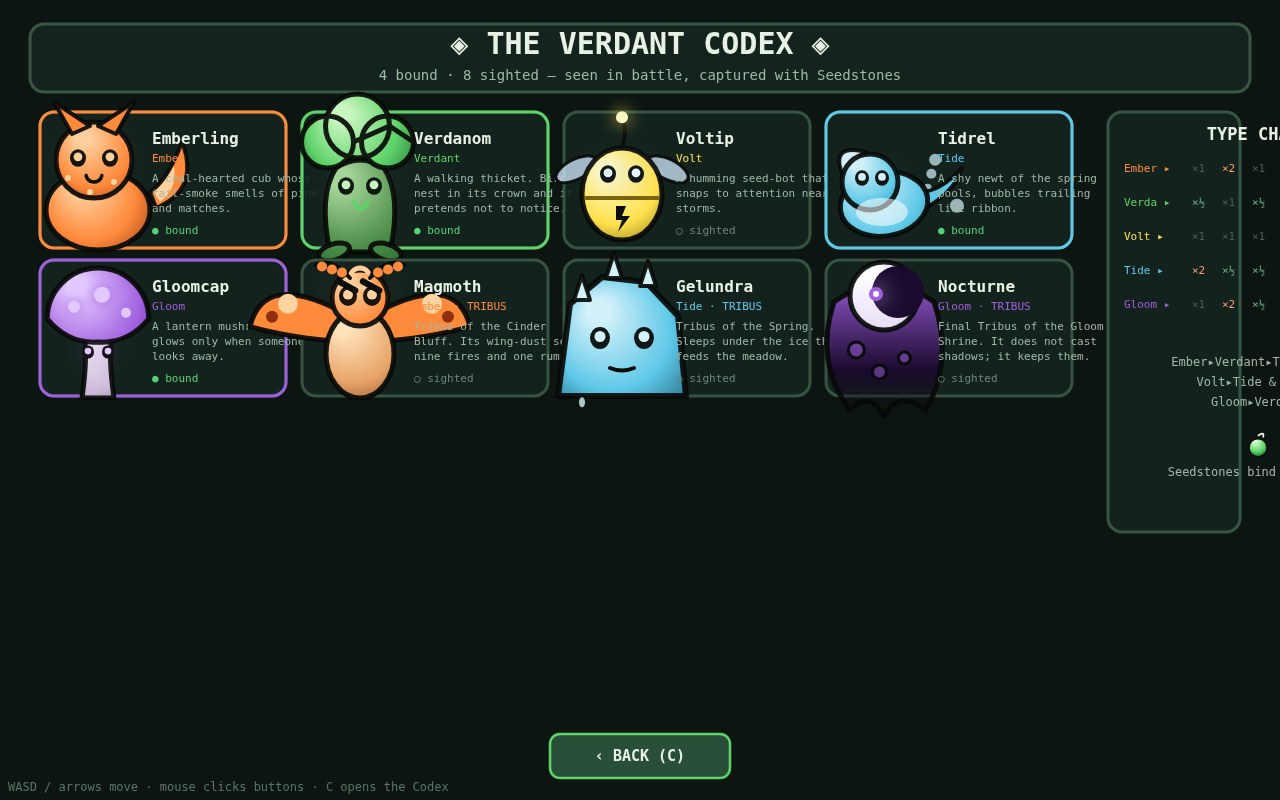
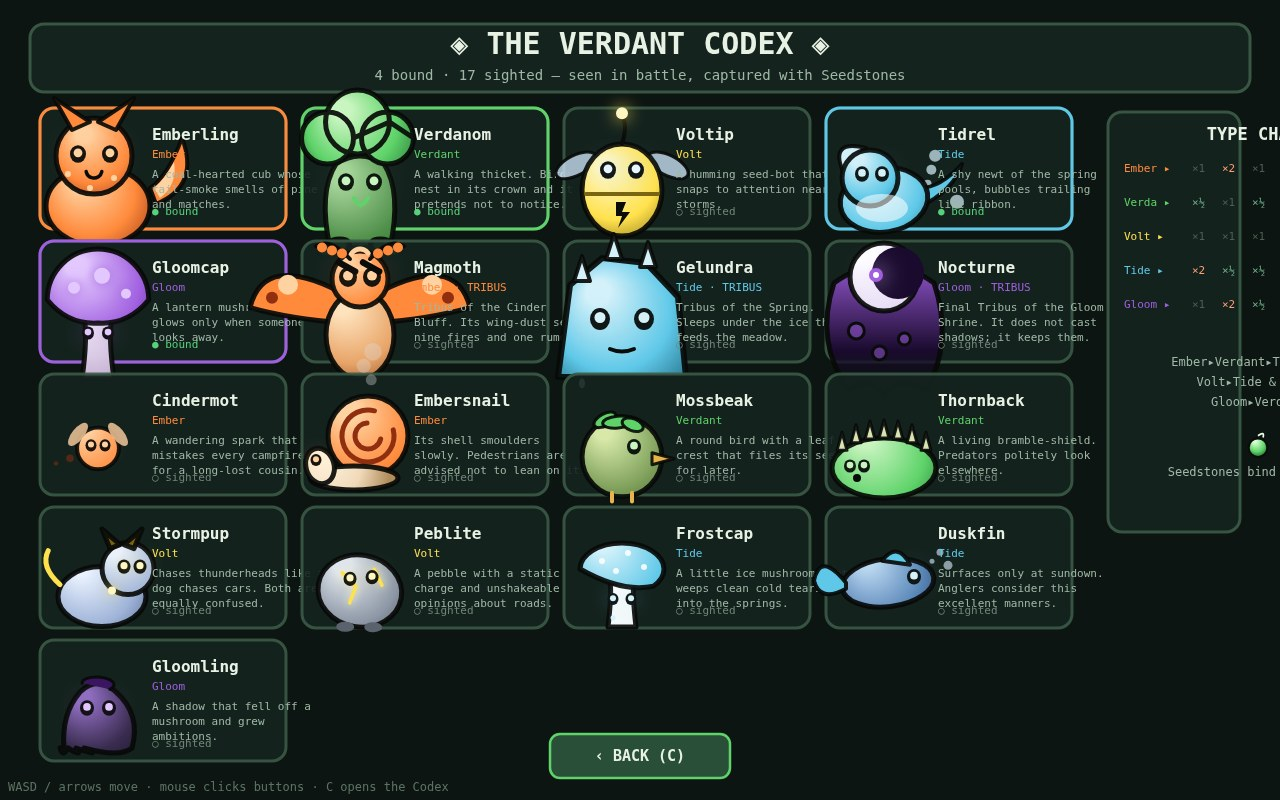
Roster: add 9 junior species (data, procedural art, wild tables); chroma-key PNG loader in render.js; codex grid fits 17 entries

Changed region(s): [[0.0312, 0.0625, 0.875, 0.9688]]

diff --git a/game/src/art.js b/game/src/art.js
@@ -294,7 +294,179 @@ export const SPECIES_ART = {
   emberling: drawEmberling, verdanom: drawVerdanom, voltip: drawVoltip,
   tidrel: drawTidrel, gloomcap: drawGloomcap,
   magmoth: drawMagmoth, gelundra: drawGelundra, nocturne: drawNocturne,
+  cindermot: drawCindermot, embersnail: drawEmbersnail, mossbeak: drawMossbeak,
+  thornback: drawThornback, stormpup: drawStormpup, peblite: drawPeblite,
+  frostcap: drawFrostcap, duskfin: drawDuskfin, gloomling: drawGloomling,
 };
+
+// ---------------------------------------------------------------- juniors (nine common wilds)
+export function drawCindermot(ctx, cx, cy, t, pos, color = ELEMENT_COLORS.Ember) {
+  const hover = pos === 'defeat' ? 24 : Math.sin(t * 4) * 6;
+  ctx.save(); ctx.translate(cx, cy - hover);
+  // ember trail behind the spark-mote
+  ctx.fillStyle = color.dark; ctx.globalAlpha = 0.5;
+  for (let i = 1; i <= 3; i++) { ctx.beginPath(); ctx.arc(-i * 14, i * 5, 7 - i * 1.6, 0, 7); ctx.fill(); }
+  ctx.globalAlpha = 1;
+  ctx.fillStyle = bodyGrad(ctx, 0, 0, 46, color);
+  ctx.beginPath(); ctx.arc(0, 0, 20 + sway(t), 0, 7); ctx.fill(); outline(ctx, 4); ctx.stroke();
+  // wings of flame
+  for (const dir of [-1, 1]) {
+    ctx.fillStyle = color.glow; ctx.globalAlpha = 0.8;
+    ctx.beginPath(); ctx.ellipse(dir * 20, -14, 14, 6, dir * (0.7 + sway(t) * 0.2), 0, 7); ctx.fill();
+  }
+  ctx.globalAlpha = 1;
+  eye(ctx, -7, -3, 5.5, color, 0); eye(ctx, 7, -3, 5.5, color, 0);
+  ctx.restore();
+}
+export function drawEmbersnail(ctx, cx, cy, t, pos, color = ELEMENT_COLORS.Ember) {
+  const droop = pos === 'defeat' ? 12 : 0;
+  ctx.save(); ctx.translate(cx, cy + droop);
+  // smouldering shell (spiral)
+  ctx.fillStyle = bodyGrad(ctx, 8, -12, 66, color);
+  ctx.beginPath(); ctx.arc(8, -12, 40 + droop * 0.2, 0, 7); ctx.fill(); outline(ctx); ctx.stroke();
+  ctx.strokeStyle = color.dark; ctx.lineWidth = 5;
+  ctx.beginPath(); ctx.arc(8, -12, 26, sway(t) * 0.3, sway(t) * 0.3 + 5.2); ctx.stroke();
+  ctx.beginPath(); ctx.arc(8, -12, 13, -sway(t) * 0.3, -sway(t) * 0.3 + 4.4); ctx.stroke();
+  // smoke from shell vent
+  ctx.fillStyle = 'rgba(220,220,220,.35)';
+  for (let i = 0; i < 3; i++) { const s = (t * 20 + i * 14) % 42; ctx.beginPath(); ctx.arc(8 + Math.sin(s * 0.2) * 5, -56 - s, 4 + s * 0.12, 0, 7); ctx.fill(); }
+  // foot + head
+  ctx.fillStyle = bodyGrad(ctx, -26, 26, 44, { main: '#f0d9b8', glow: '#fff3dd', dark: '#b08d5c' });
+  ctx.beginPath(); ctx.ellipse(-6, 30, 44, 12, 0, 0, 7); ctx.fill(); outline(ctx); ctx.stroke();
+  ctx.beginPath(); ctx.ellipse(-40, 18 - droop, 14, 18, -0.3, 0, 7); ctx.fill(); ctx.stroke();
+  eye(ctx, -44, 12 - droop, 5.5, color, 0);
+  ctx.restore();
+}
+export function drawMossbeak(ctx, cx, cy, t, pos, color = ELEMENT_COLORS.Verdant) {
+  const hop = pos === 'defeat' ? 14 : Math.abs(Math.sin(t * 3)) * 4;
+  ctx.save(); ctx.translate(cx, cy - hop);
+  // round body
+  ctx.fillStyle = bodyGrad(ctx, 0, 8, 60, { main: '#7fa05b', glow: '#d7e8a8', dark: '#3c5930' });
+  ctx.beginPath(); ctx.arc(0, 10, 40, 0, 7); ctx.fill(); outline(ctx); ctx.stroke();
+  // leaf crest
+  ctx.fillStyle = color.main;
+  for (const [a, w] of [[-0.5, 12], [-0.1, 15], [0.35, 11]]) {
+    ctx.beginPath(); ctx.ellipse(Math.cos(a - 1.6) * 34, -24 + Math.sin(a) * 6, w, 6, a, 0, 7); ctx.fill(); outline(ctx, 3); ctx.stroke();
+  }
+  // beak + feet
+  ctx.fillStyle = '#e8b34b';
+  ctx.beginPath(); ctx.moveTo(30, 6); ctx.lineTo(52, 12); ctx.lineTo(30, 18); ctx.closePath(); ctx.fill(); outline(ctx, 3); ctx.stroke();
+  ctx.strokeStyle = '#e8b34b'; ctx.lineWidth = 4;
+  for (const dir of [-10, 10]) { ctx.beginPath(); ctx.moveTo(dir, 46); ctx.lineTo(dir, 56 - hop); ctx.stroke(); }
+  eye(ctx, 12, 0, 7, color, pos === 'hurt' ? 1 : 0);
+  if (pos === 'defeat') { ctx.strokeStyle = '#0a0c0a'; ctx.lineWidth = 3; ctx.beginPath(); ctx.moveTo(-20, -20); ctx.lineTo(-8, -8); ctx.moveTo(-8, -20); ctx.lineTo(-20, -8); ctx.stroke(); }
+  ctx.restore();
+}
+export function drawThornback(ctx, cx, cy, t, pos, color = ELEMENT_COLORS.Verdant) {
+  const droop = pos === 'defeat' ? 12 : 0;
+  ctx.save(); ctx.translate(cx, cy + droop);
+  // low bramble shell
+  ctx.fillStyle = bodyGrad(ctx, 0, 16, 66, color);
+  ctx.beginPath(); ctx.ellipse(0, 20, 52, 30, 0, 0, 7); ctx.fill(); outline(ctx); ctx.stroke();
+  // thorns along the ridge
+  ctx.fillStyle = '#d8e3b0';
+  for (let i = -3; i <= 3; i++) {
+    const tx = i * 14, ty = 20 - Math.sqrt(Math.max(0, 1 - (tx / 52) ** 2)) * 30;
+    ctx.beginPath(); ctx.moveTo(tx - 5, ty); ctx.lineTo(tx, ty - 18 - (pos === 'hurt' ? 4 : 0)); ctx.lineTo(tx + 5, ty); ctx.closePath(); ctx.fill(); outline(ctx, 3); ctx.stroke();
+  }
+  // peeking face
+  eye(ctx, -34, 18, 6, color, 0); eye(ctx, -20, 18, 6, color, 0);
+  ctx.fillStyle = '#0a0c0a'; ctx.beginPath(); ctx.arc(-27, 30, 4, 0, 7); ctx.fill();
+  ctx.restore();
+}
+export function drawStormpup(ctx, cx, cy, t, pos, color = ELEMENT_COLORS.Volt) {
+  const bounce = pos === 'defeat' ? 16 : Math.abs(Math.sin(t * 5)) * 5;
+  ctx.save(); ctx.translate(cx, cy - bounce);
+  // body + curled tail of static
+  ctx.fillStyle = bodyGrad(ctx, 0, 14, 60, { main: '#9fb4d8', glow: '#eaf2ff', dark: '#43567c' });
+  ctx.beginPath(); ctx.ellipse(4, 20, 44, 30, 0, 0, 7); ctx.fill(); outline(ctx); ctx.stroke();
+  ctx.strokeStyle = color.main; ctx.lineWidth = 5;
+  ctx.beginPath(); ctx.moveTo(-38, 8); ctx.quadraticCurveTo(-58, -10, -46 + sway(t) * 4, -26); ctx.stroke();
+  // head + ears
+  ctx.fillStyle = bodyGrad(ctx, 30, -8, 50, { main: '#9fb4d8', glow: '#eaf2ff', dark: '#43567c' });
+  ctx.beginPath(); ctx.arc(30, -8, 26, 0, 7); ctx.fill(); outline(ctx); ctx.stroke();
+  for (const d of [-1, 1]) {
+    ctx.fillStyle = color.dark;
+    ctx.beginPath(); ctx.moveTo(24 + d * 12, -28); ctx.lineTo(24 + d * 20, -52 + bounce); ctx.lineTo(24 + d * 2, -32); ctx.closePath(); ctx.fill(); ctx.stroke();
+  }
+  eye(ctx, 26, -10, 6.5, color, pos === 'hurt' ? 1 : 0); eye(ctx, 42, -10, 6.5, color, pos === 'hurt' ? 1 : 0);
+  // spark collar
+  ctx.fillStyle = color.glow; ctx.shadowColor = color.main; ctx.shadowBlur = 12;
+  ctx.beginPath(); ctx.arc(14, 14, 4, 0, 7); ctx.fill(); ctx.shadowBlur = 0;
+  ctx.restore();
+}
+export function drawPeblite(ctx, cx, cy, t, pos, color = ELEMENT_COLORS.Volt) {
+  const wobble = pos === 'defeat' ? 0 : sway(t) * 0.06;
+  ctx.save(); ctx.translate(cx, cy + (pos === 'defeat' ? 16 : 0)); ctx.rotate(wobble);
+  // pebble body
+  ctx.fillStyle = bodyGrad(ctx, 0, 8, 60, { main: '#8d97a5', glow: '#dfe6ef', dark: '#3d444d' });
+  ctx.beginPath(); ctx.ellipse(0, 10, 42, 36, 0.15, 0, 7); ctx.fill(); outline(ctx); ctx.stroke();
+  // crack seams glowing static
+  ctx.strokeStyle = color.main; ctx.lineWidth = 3.5; ctx.shadowColor = color.glow; ctx.shadowBlur = 8;
+  ctx.beginPath(); ctx.moveTo(-18, -8); ctx.lineTo(-4, 6); ctx.lineTo(-10, 22); ctx.stroke();
+  ctx.beginPath(); ctx.moveTo(14, -12); ctx.lineTo(22, 4); ctx.stroke();
+  ctx.shadowBlur = 0;
+  // stubby legs
+  ctx.fillStyle = '#5a626d';
+  for (const dir of [-14, 14]) { ctx.beginPath(); ctx.ellipse(dir, 46, 9, 5, 0, 0, 7); ctx.fill(); }
+  eye(ctx, -10, -2, 6.5, color, pos === 'hurt' ? 1 : 0); eye(ctx, 12, -4, 6.5, color, pos === 'hurt' ? 1 : 0);
+  ctx.restore();
+}
+export function drawFrostcap(ctx, cx, cy, t, pos, color = ELEMENT_COLORS.Tide) {
+  const droop = pos === 'defeat' ? 14 : 0;
+  ctx.save(); ctx.translate(cx, cy + droop);
+  // stem
+  ctx.fillStyle = bodyGrad(ctx, 0, 24, 46, { main: '#eef6f8', glow: '#ffffff', dark: '#b8ccd4' });
+  ctx.beginPath(); ctx.moveTo(-14, 46); ctx.quadraticCurveTo(-10, 10, -12, 2); ctx.lineTo(12, 2); ctx.quadraticCurveTo(10, 10, 14, 46); ctx.closePath(); ctx.fill(); outline(ctx); ctx.stroke();
+  // icy cap
+  ctx.fillStyle = bodyGrad(ctx, 0, -14, 66, color);
+  ctx.beginPath(); ctx.ellipse(0, -12, 42, 26 + droop * 0.3, 0, Math.PI, 7); ctx.quadraticCurveTo(0, 12 - droop, -42, -12); ctx.fill(); outline(ctx); ctx.stroke();
+  // frost speckles
+  ctx.fillStyle = '#ffffff'; ctx.globalAlpha = 0.85;
+  for (const [fx, fy] of [[-20, -20], [6, -28], [22, -14], [-6, -10]]) { ctx.beginPath(); ctx.arc(fx, fy, 3, 0, 7); ctx.fill(); }
+  ctx.globalAlpha = 1;
+  eye(ctx, -9, 18, 5.5, color, 0); eye(ctx, 9, 18, 5.5, color, 0);
+  // cold tear
+  const tp = (t * 26) % 30;
+  ctx.fillStyle = color.glow; ctx.beginPath(); ctx.arc(-9, 26 + tp, 2.5, 0, 7); ctx.fill();
+  ctx.restore();
+}
+export function drawDuskfin(ctx, cx, cy, t, pos, color = ELEMENT_COLORS.Tide) {
+  const swim = pos === 'defeat' ? 18 : Math.sin(t * 3) * 5;
+  ctx.save(); ctx.translate(cx, cy + swim);
+  // crescent body
+  ctx.fillStyle = bodyGrad(ctx, 0, 6, 60, { main: '#5a86b8', glow: '#bcd9f2', dark: '#243c5c' });
+  ctx.beginPath(); ctx.ellipse(4, 6, 46, 24, -0.12, 0, 7); ctx.fill(); outline(ctx); ctx.stroke();
+  // dusk tail-fin
+  ctx.fillStyle = color.main;
+  ctx.beginPath(); ctx.moveTo(-38, 6); ctx.quadraticCurveTo(-64, -20 + sway(t) * 6, -70, 4); ctx.quadraticCurveTo(-64, 26, -38, 12); ctx.closePath(); ctx.fill(); outline(ctx, 4); ctx.stroke();
+  // dorsal fin
+  ctx.beginPath(); ctx.moveTo(-2, -16); ctx.quadraticCurveTo(14, -40 - (pos === 'defeat' ? 0 : sway(t) * 4), 26, -12); ctx.closePath(); ctx.fill(); ctx.stroke();
+  eye(ctx, 30, 0, 7, color, pos === 'hurt' ? 1 : 0);
+  // bubble trail
+  ctx.fillStyle = 'rgba(220,240,255,.6)';
+  for (let i = 0; i < 3; i++) { ctx.beginPath(); ctx.arc(48 + i * 8, -6 - ((t * 18 + i * 9) % 22), 2.5 + i, 0, 7); ctx.fill(); }
+  ctx.restore();
+}
+export function drawGloomling(ctx, cx, cy, t, pos, color = ELEMENT_COLORS.Gloom) {
+  const creep = pos === 'defeat' ? 20 : sway(t * 1.5) * 4;
+  ctx.save(); ctx.translate(cx, cy);
+  // amorphous shadow blob with wobbling base
+  ctx.fillStyle = bodyGrad(ctx, 0, 4, 56, { main: '#3a2c50', glow: '#8f6fc0', dark: '#14101f' });
+  ctx.beginPath();
+  ctx.moveTo(-34, 34);
+  ctx.quadraticCurveTo(-40 + creep, 0, -18, -22);
+  ctx.quadraticCurveTo(0, -38 - creep * 0.4, 18, -22);
+  ctx.quadraticCurveTo(40 + creep, 0, 34, 34);
+  for (let i = 0; i < 4; i++) ctx.quadraticCurveTo(20 - i * 18 + Math.sin(t * 4 + i) * 4, 44, -14 - i * 8, 34);
+  ctx.closePath(); ctx.fill(); outline(ctx); ctx.stroke();
+  eye(ctx, -11, -6, 7, color, 0); eye(ctx, 11, -6, 7, color, 0);
+  // tiny mushroom-cap it fell from
+  ctx.fillStyle = color.dark;
+  ctx.beginPath(); ctx.ellipse(0, -30, 16, 7, sway(t) * 0.1, Math.PI, 7); ctx.fill(); outline(ctx, 3); ctx.stroke();
+  if (pos === 'defeat') { ctx.strokeStyle = '#cfd4e8'; ctx.lineWidth = 3; ctx.beginPath(); ctx.moveTo(-18, 30); ctx.lineTo(-10, 40); ctx.moveTo(12, 34); ctx.lineTo(20, 42); ctx.stroke(); }
+  ctx.restore();
+}
 
 export function drawCreature(ctx, speciesId, cx, cy, t, pos) {
   const fn = SPECIES_ART[speciesId] || drawGloomcap;

diff --git a/game/src/render.js b/game/src/render.js
@@ -1,9 +1,66 @@
 // render.js — scene drawing on the main canvas: the camera-followed top-down
 // field, the battle stage with creature portraits, hit flashes and particles.
+// Also hosts the optional chroma-key PNG creature loader: if game/assets/creatures/
+// later gains <species>_{idle,attack,defeat}.png files on black backgrounds, enabling
+// it (?pngart=1 or localStorage vs.pngart=1) replaces the procedural portraits for
+// those poses. The black pixels are keyed to transparency at threshold 24. The game
+// runs at full fidelity without the folder or the flag — nothing is fetched unless
+// the flag is on, so no 404 noise in a normal run.
 import { VIEW_W, VIEW_H, TILE, PALETTE, ELEMENT_COLORS } from './config.js';
 import { MAP_W, MAP_H, T } from './world.js';
 import { drawTile, drawRanger, drawCreature, drawSparkle } from './art.js';
 import { SPECIES } from './data.js';
+
+// ------------------------------------------------------------ chroma-key PNG loader
+const pngCache = new Map();        // "species:pose" -> keyed canvas | false (tried & missing)
+const pending  = new Set();        // keys currently loading
+let chromaEnabled = false;
+try {
+  chromaEnabled = new URLSearchParams(location.search).has('pngart') ||
+    localStorage.getItem('vs.pngart') === '1';
+} catch (e) { /* blocked storage: procedural art only, which is fine */ }
+
+/** Black -> transparent at threshold; returns an offscreen canvas. */
+function keyChroma(img) {
+  const c = document.createElement('canvas');
+  c.width = img.naturalWidth; c.height = img.naturalHeight;
+  const cx = c.getContext('2d');
+  cx.drawImage(img, 0, 0);
+  const data = cx.getImageData(0, 0, c.width, c.height);
+  const px = data.data, THRESH = 24;
+  for (let i = 0; i < px.length; i += 4) {
+    const lum = px[i] + px[i + 1] + px[i + 2];
+    if (lum <= THRESH * 3) { px[i + 3] = 0; }
+    else if (lum < THRESH * 6) { px[i + 3] = Math.round(255 * (lum / (THRESH * 6) - 0.5)); } // soft edge
+  }
+  cx.putImageData(data, 0, 0);
+  return c;
+}
+
+/** Kick a silent load for species+pose if the flag is on. onerror just records false. */
+function requestPng(speciesId, pose) {
+  if (!chromaEnabled) return;
+  const key = speciesId + ':' + pose;
+  if (pngCache.has(key) || pending.has(key)) return;
+  pending.add(key);
+  const img = new Image();
+  img.onload = () => { pending.delete(key); try { pngCache.set(key, keyChroma(img)); } catch (e) { pngCache.set(key, false); } };
+  img.onerror = () => { pending.delete(key); pngCache.set(key, false); };
+  img.src = `assets/creatures/${speciesId}_${pose}.png`;
+}
+
+/** Draw the keyed PNG if we have one; true when it drew. */
+function drawPngCreature(ctx, speciesId, pose, cxp, cyp, scale = 1) {
+  requestPng(speciesId, pose);
+  const sprite = pngCache.get(speciesId + ':' + pose);
+  if (!sprite) return false;
+  ctx.save();
+  ctx.translate(cxp, cyp);
+  ctx.scale(scale, scale);
+  ctx.drawImage(sprite, -sprite.width / 2, -sprite.height / 2);
+  ctx.restore();
+  return true;
+}
 
 export class Particles {
   constructor() { this.list = []; }
@@ -96,16 +153,25 @@ export function drawBattle(ctx, battle, t, particles) {
 
   const fx = battle.fx;
   const shake = (who) => fx && fx.target === who && fx.kind === 'hit' ? Math.sin(fx.t * 60) * 6 : 0;
-  const posOf = (who) => (battle.enemy.hp <= 0 && who === 'enemy') || (battle.player.hp <= 0 && who === 'player') ? 'defeat'
+  const poseOf = (who) => (battle.enemy.hp <= 0 && who === 'enemy') || (battle.player.hp <= 0 && who === 'player') ? 'defeat'
+    : fx && fx.target === who && fx.kind === 'attack' ? 'attack'
     : fx && fx.target === who && (fx.kind === 'hit' || fx.kind === 'miss') ? 'hurt' : 'idle';
+  const drawOne = (sp, a, who) => {
+    const pose = poseOf(who);
+    // optional chroma-keyed PNG art overrides procedural for idle/attack/defeat poses
+    if (pose === 'idle' || pose === 'attack' || pose === 'defeat') {
+      if (drawPngCreature(ctx, sp, pose, a.x, a.y)) return;
+    }
+    drawCreature(ctx, sp, a.x, a.y, t, pose);
+  };
 
   // enemy portrait
   ctx.save(); ctx.translate(shake('enemy'), 0);
-  drawCreature(ctx, battle.enemy.species, anchors.enemy.x, anchors.enemy.y, t, posOf('enemy'));
+  drawOne(battle.enemy.species, anchors.enemy, 'enemy');
   ctx.restore();
   // player portrait
   ctx.save(); ctx.translate(shake('player'), 0);
-  drawCreature(ctx, battle.player.species, anchors.player.x, anchors.player.y, t, posOf('player'));
+  drawOne(battle.player.species, anchors.player, 'player');
   ctx.restore();
 
   // capture swirl while a seedstone works

diff --git a/game/src/data.js b/game/src/data.js
@@ -93,15 +93,70 @@ export const SPECIES = {
     base: { hp: 80, atk: 15, def: 11, spd: 12 }, xpYield: 500, rarity: 0,
     learn: [{ lv: 1, move: 'nightCreep' }, { lv: 1, move: 'gloomSpore' }, { lv: 1, move: 'duskRequiem' }, { lv: 1, move: 'hexBloom' }],
   },
+  // ---- nine common wild juniors (catchable, all procedurally drawn in art.js) ----
+  cindermot: {
+    id: 'cindermot', name: 'Cindermot', element: 'Ember',
+    desc: 'A wandering spark that mistakes every campfire for a long-lost cousin.',
+    base: { hp: 18, atk: 7, def: 4, spd: 9 }, xpYield: 18, rarity: 4,
+    learn: [{ lv: 1, move: 'emberDart' }, { lv: 5, move: 'cinderRoar' }],
+  },
+  embersnail: {
+    id: 'embersnail', name: 'Embersnail', element: 'Ember',
+    desc: 'Its shell smoulders slowly. Pedestrians are advised not to lean on it.',
+    base: { hp: 24, atk: 5, def: 9, spd: 2 }, xpYield: 19, rarity: 4,
+    learn: [{ lv: 1, move: 'emberDart' }, { lv: 6, move: 'flareFocus' }],
+  },
+  mossbeak: {
+    id: 'mossbeak', name: 'Mossbeak', element: 'Verdant',
+    desc: 'A round bird with a leaf crest that files its seeds for later.',
+    base: { hp: 22, atk: 6, def: 6, spd: 7 }, xpYield: 20, rarity: 4,
+    learn: [{ lv: 1, move: 'leafLash' }, { lv: 5, move: 'mossVeil' }],
+  },
+  thornback: {
+    id: 'thornback', name: 'Thornback', element: 'Verdant',
+    desc: 'A living bramble-shield. Predators politely look elsewhere.',
+    base: { hp: 26, atk: 7, def: 10, spd: 3 }, xpYield: 24, rarity: 3,
+    learn: [{ lv: 1, move: 'leafLash' }, { lv: 7, move: 'bloomDrain' }],
+  },
+  stormpup: {
+    id: 'stormpup', name: 'Stormpup', element: 'Volt',
+    desc: 'Chases thunderheads like a dog chases cars. Both are equally confused.',
+    base: { hp: 20, atk: 8, def: 5, spd: 10 }, xpYield: 22, rarity: 4,
+    learn: [{ lv: 1, move: 'sparkJolt' }, { lv: 6, move: 'staticField' }],
+  },
+  peblite: {
+    id: 'peblite', name: 'Peblite', element: 'Volt',
+    desc: 'A pebble with a static charge and unshakeable opinions about roads.',
+    base: { hp: 23, atk: 7, def: 8, spd: 4 }, xpYield: 21, rarity: 4,
+    learn: [{ lv: 1, move: 'sparkJolt' }, { lv: 8, move: 'thunderPelea' }],
+  },
+  frostcap: {
+    id: 'frostcap', name: 'Frostcap', element: 'Tide',
+    desc: 'A little ice mushroom that weeps clean cold tears into the springs.',
+    base: { hp: 23, atk: 6, def: 8, spd: 5 }, xpYield: 21, rarity: 4,
+    learn: [{ lv: 1, move: 'bubbleFlick' }, { lv: 6, move: 'tideMend' }],
+  },
+  duskfin: {
+    id: 'duskfin', name: 'Duskfin', element: 'Tide',
+    desc: 'Surfaces only at sundown. Anglers consider this excellent manners.',
+    base: { hp: 21, atk: 7, def: 6, spd: 9 }, xpYield: 21, rarity: 3,
+    learn: [{ lv: 1, move: 'bubbleFlick' }, { lv: 7, move: 'brineWave' }],
+  },
+  gloomling: {
+    id: 'gloomling', name: 'Gloomling', element: 'Gloom',
+    desc: 'A shadow that fell off a mushroom and grew ambitions.',
+    base: { hp: 19, atk: 8, def: 5, spd: 8 }, xpYield: 20, rarity: 4,
+    learn: [{ lv: 1, move: 'gloomSpore' }, { lv: 6, move: 'hexBloom' }],
+  },
 };
 
 export const SPECIES_LIST = Object.keys(SPECIES);
 
 // Wild encounter tables per zone id (weight).
 export const WILD_TABLES = {
-  moss:   [['verdanom', 4], ['tidrel', 3], ['voltip', 2], ['emberling', 2], ['gloomcap', 1]],
-  cliff:  [['emberling', 5], ['voltip', 3], ['magmoth', 0.02], ['gloomcap', 1]],
-  temple: [['gloomcap', 5], ['verdanom', 2], ['nocturne', 0.012], ['tidrel', 1]],
+  moss:   [['mossbeak', 5], ['frostcap', 3], ['stormpup', 2], ['thornback', 2], ['gloomling', 2], ['verdanom', 4], ['tidrel', 3], ['voltip', 2], ['emberling', 2], ['gloomcap', 1]],
+  cliff:  [['cindermot', 5], ['embersnail', 3], ['peblite', 3], ['stormpup', 2], ['emberling', 5], ['voltip', 3], ['magmoth', 0.02], ['gloomcap', 1]],
+  temple: [['gloomling', 5], ['duskfin', 2], ['frostcap', 2], ['gloomcap', 5], ['verdanom', 2], ['nocturne', 0.012], ['tidrel', 1]],
 };
 
 // Fixed story encounters: walking onto the tile near these markers starts the boss battle.

diff --git a/game/src/screens.js b/game/src/screens.js
@@ -88,7 +88,7 @@ export function drawCodex(ctx, team, t) {
   centerText(ctx, '◈ THE VERDANT CODEX ◈', VIEW_W / 2, 54, 'bold 30px monospace', PALETTE.paper);
   centerText(ctx, `${team.dexCaught.size} bound · ${team.dexSeen.size} sighted — seen in battle, captured with Seedstones`, VIEW_W / 2, 80, '14px monospace', '#9fb8a6');
 
-  const cols = 4, cellW = 262, cellH = 148, gx = 40, gy = 112;
+  const cols = 4, cellW = 262, cellH = 133, gx = 40, gy = 108;
   SPECIES_LIST.forEach((id, i) => {
     const sp = SPECIES[id];
     const x = gx + (i % cols) * cellW, y = gy + Math.floor(i / cols) * cellH;
